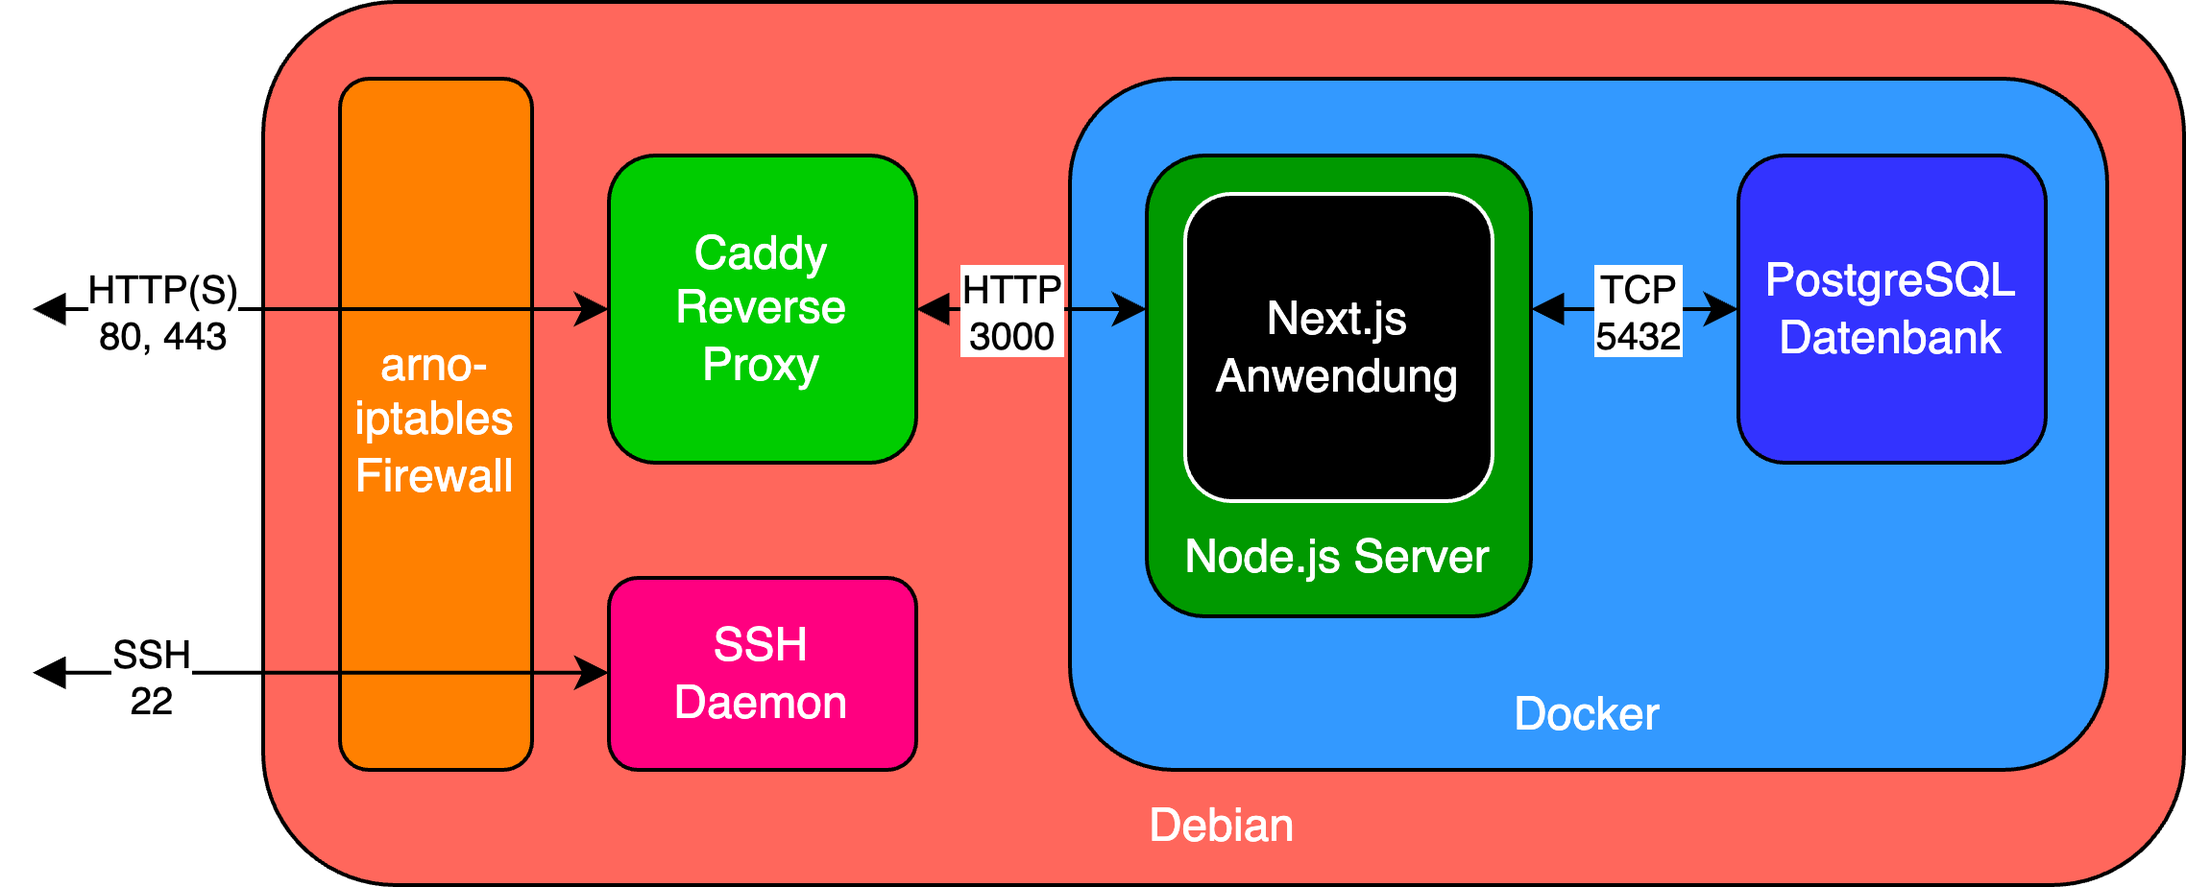
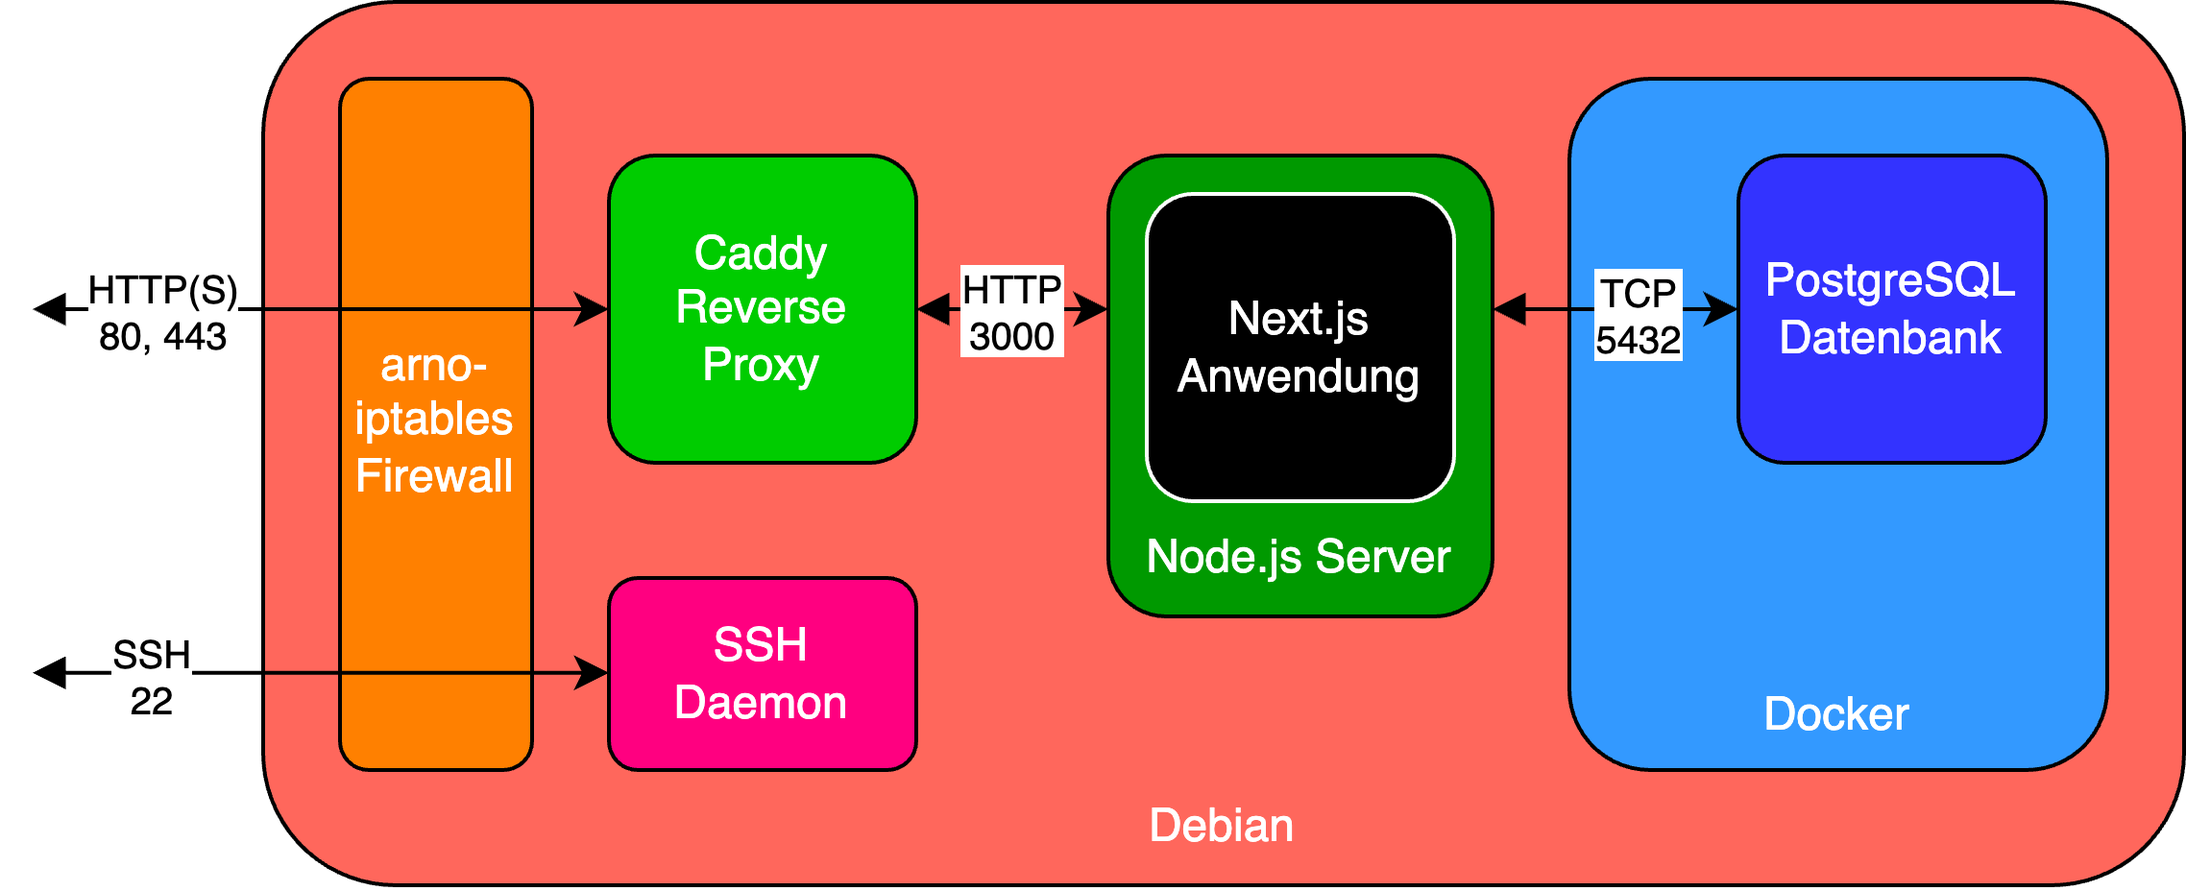
Nun ohne Docker; Spell Checking

diff --git a/docs/Handbuch.md b/docs/Handbuch.md
@@ -3,51 +3,94 @@
 ## Aufsetzen des Linux Servers
 **Mario Wegmann**
 
-In der folgenden Anleitung werden Platzhalter mit <Platzhaltername> markiert. 
-### Grundinstallation
+### Installation
 
-sudo apt-get install git
+In der folgenden Anleitung werden Platzhalter mit `<Platzhaltername>` markiert. 
 
+Zu Beginn sollte ein Reverseproxy installiert werden, dies ist kein absolutes Muss, aber für weitere Funktionalitäten, wie HTTP BasicAuth und SSL-Zertifikate, durchaus hilfreich. 
+Hier wurde der Caddy Reverse Proxy verwendet, aber auch Nginx oder Apache können problemlos eingesetzt werden. 
 
-### Testumgebung für Entwicklung
-// TODO
-Zu beginn muss Node.js installiert werden. 
-Da über den apt Packetmanager nur sehr langsam aktuelle Versionen von Node.js bereitgestellt werden, wird hier der Node Version Manager (nvm) verwendet. 
+Um Caddy zu installieren, wird das Repository von den Caddy Maintainern hinzugefügt.
+
+``` bash
+sudo apt install -y debian-keyring debian-archive-keyring apt-transport-https curl
+curl -1sLf 'https://dl.cloudsmith.io/public/caddy/stable/gpg.key' | sudo gpg --dearmor -o /usr/share/keyrings/caddy-stable-archive-keyring.gpg
+curl -1sLf 'https://dl.cloudsmith.io/public/caddy/stable/debian.deb.txt' | sudo tee /etc/apt/sources.list.d/caddy-stable.list
+```
+
+Anschließend können die Repositorys neu geladen und Caddy installiert werden. 
+
+``` bash
+sudo apt-get update
+sudo apt-get install caddy
+```
+
+Der Caddy Reverseproxy wird über eine Konfigurationsdatei verwaltet, diese sollte sich unter '/etc/caddy/Caddyfile' befinden. Mit dem folgenden Code wird ein einfacher Reverseproxy auf Port :3000 der Next.js Anwendung eingerichtet, dabei wird ein lokal liegendes SSL-Zertifikat verwendet und eine Basic Auth Authentifizierung. 
+Den Passwort Hash kann man direkt mit Caddy generieren, indem `caddy hash-password`verwendet wird, diese Hilfsfunktion fragt nach dem Passwort und gibt dann den Hash aus, welcher in der Caddyfile eingetragen werden kann. 
+
+```yml
+lprd.informatik.tha.de {
+        tls /etc/ssl/certs/lprd-fullchain.pem /etc/ssl/priavte/lprd-privkey.pem
+        basicauth * {
+                <Benutzername> <Passwort Hash>
+        }
+        reverse_proxy 127.0.0.1:3000
+}
+```
+
+Danach muss Node.js installiert werden. 
+Da über den apt Paketmanager nur sehr langsam aktuelle Versionen von Node.js bereitgestellt werden, wird hier der Node Version Manager (nvm) verwendet. 
 
 Dieser lässt sich über folgendes Bash Skript installieren. 
+
 `curl -o- https://raw.githubusercontent.com/nvm-sh/nvm/v0.39.7/install.sh | bash`
-Nach der Installation empfiehlt es sich die SSH Sitzung neu zu starten, damit der `nvm` Befehl auch erkannt wird. 
+
+Nach der Installation empfiehlt es sich, die SSH-Sitzung neu zu starten, damit der `nvm` Befehl auch erkannt wird. 
 Anschließend kann mit `nvm install 20` die LTS-Version Node.js 20 installiert werden. 
-Mit Node.js kommt auch der `npm` Packetmanager. Mit disem lässt sich React und Next.js installieren. 
+Mit Node.js kommt auch der `npm` Paketmanager. Mit diesem lässt sich React und Next.js installieren. 
+
 `npm install next@latest react@latest react-dom@latest`
 
-Als nächstes muss ein SSH Key für Github hinterlegt werden, damit das Repository geklont werden kann. 
-Dafür wird als erstet ein SSH Key generiert. 
-Es empfiehlt sich dabei auch ein Passphrase zu vergeben und beim Speicherort einen eindeutigen Namen zu vergeben. 
+Als Nächstes wird `git`installiert, um den Sourcode herunterladen zu können. 
+
+`sudo apt-get install git`
+
+Danach muss ein SSH Key für Github hinterlegt werden, damit das Repository geklont werden kann. 
+Dafür wird als Erstes ein SSH Key generiert. 
+Es empfiehlt sich dabei auch, eine Passphrase zu vergeben und beim Speicherort einen eindeutigen Namen zu vergeben. 
+
 `ssh-keygen -t ed25519 -C "<Github E-Mail Adresse>"`
-Als nächstes wird der SSH Agent einmal gestartet um anschließend den SSH Key beim SSH Agent hinterlegen zu können. 
+
+Als Nächstes wird der SSH Agent einmal gestartet, um anschließend den SSH Key beim SSH Agent hinterlegen zu können. 
+
 `eval "$(ssh-agent -s)"`
-Beim hinzufügen muss auch die zuvor festgelegte Passpharse eingegeben werden. 
+
+Beim Hinzufügen muss auch die zuvor festgelegte Passphrase eingegeben werden. 
+
 `ssh-add <Speicherort des zuvor erstellten SSH Keys angeben>`
 
 Der Public Teil des SSH Keys muss auch im Github Account hinterlegt werden. 
 Dafür die URL https://github.com/settings/keys aufrufen und einen neuen SSH Key hinzufügen. 
 
 Nun kann das Repository der Webanwendung geklont werden. 
+
 `git clone git@github.com:THA-LPRD/web.git lprd`
 
 Danach wird das Verzeichnis von der Next.js Anwendung betreten.
+
 `cd lprd/lprd-server`
 
-Die Anwendung verwendet die offizielle Schriftart der THA. Die Schriftart TWK Everett darf wegen der, von der THA erworbenen, Lizenz jedoch nur Studierenden und Mitarbeitern der Technischen Hochschule Augsburg zur verfügung gestellt werden. Die Schriftart lässt sich unter folgender URL herunterladen: https://www.tha.de/Kommunikation/Corporate-Design.page 
-Anschließend müssen die zwei Schriftfamilien TWKEverett-Bold-web.ttf und TWKEverett-Medium-web.ttf TWKEverett-Medium-web.ttf müssen im Ordner lprd-server/components/fonts kopiert werden. 
+Die Anwendung verwendet die offizielle Schriftart der THA. Die Schriftart TWK Everett darf, wegen der von der THA erworbenen, Lizenz jedoch nur Studierenden und Mitarbeitern der Technischen Hochschule Augsburg zur Verfügung gestellt werden. Die Schriftart lässt sich unter folgender URL herunterladen: https://www.tha.de/Kommunikation/Corporate-Design.page 
+Anschließend müssen die zwei Schriftfamilien TWKEverett-Bold-web.ttf und TWKEverett-Medium-web.ttf TWKEverett-Medium-web.ttf im Ordner lprd-server/components/fonts kopiert werden. 
 
-Als nächstes kann die PostgreSQL Datenbank aufgesetzt werden. 
+Als Nächstes kann die PostgreSQL-Datenbank aufgesetzt werden. 
 Dafür kann das Docker Image oder auch ein bestehender PostgreSQL Server verwendet werden. 
+
 `sudo docker run --name lprd-postgres -v pgdata:/var/lib/postgresql/data -p 5432:5432 -e POSTGRES_PASSWORD=<SicherersDatenbankPasswort> -d postgres`
 
 Die URL der Datenbank muss auch noch der Next.js Anwendung bekannt gemacht werden, dies geschieht über die .env Datei. 
-Diese sollte neue angelegt werden und den folgenden Inhalt enthalten: 
+Diese sollte neu angelegt werden und den folgenden Inhalt enthalten: 
+
 `DATABASE_URL="postgresql://<PostgresUser>:<PostgresUserPassword>@<PostgresServerIP/Hostname>:5432"`
 
 Nach der Installation der Datenbank kann diese mit Prisma mit den notwendigen Tabellen befüllt werden. 
@@ -55,9 +98,11 @@ Nach der Installation der Datenbank kann diese mit Prisma mit den notwendigen Ta
 `npx prisma migrate dev --name init`
 
 Für die Konvertierung von HTML zu PNG wird die Library node-html-to-image verwendet. Diese nutzt Puppeteer als Basis für die Konvertierung. Beim direkten Testen auf dem Server kann es vorkommen, dass Puppeteer nicht startet, da es weitere Abhängigkeiten hat. Diese fehlenden Abhängigkeiten können mit dem folgenden Befehl herausgefunden werden: 
+
 `ldd /home/<USER>/.cache/puppeteer/chrome/linux-<VERSION>/chrome-linux64/chrome | grep not`
 
-Im Fall der hier verwendeten Debian Installation mussten folgende Pakete noch zusätzlich installiert werden
+Im Fall der hier verwendeten Debian Installation mussten folgende Pakete noch zusätzlich installiert werden. 
+
 `sudo apt-get install libgbm1 libasound2 libxkbcommon0 libatk-bridge2.0-0 libnss3`
 
 Die Vorbereitungen sind somit abgeschlossen und der Developmentserver kann gestartet werden.
@@ -66,41 +111,14 @@ Die Vorbereitungen sind somit abgeschlossen und der Developmentserver kann gesta
 
 Unter http://localhost:3000 ist der Server nun erreichbar. 
 
-Der Developmentserver kann mit dem Tastenkürze Ctrl+C beendet werden. 
-
-
-
-
-
-
-
-
-### Produktivumgebung bauen
-
-sudo docker network create lprd
-
-sudo docker run --name lprd-postgres -v pgdata:/var/lib/postgresql/data -p 5432 --net lprd -e POSTGRES_PASSWORD=<SicherersDatenbankPasswort> -d postgres
-
-
-
-
-sudo docker build -t lprd-docker .
-sudo docker run -p 3000:3000 -v lprddata:/app/public/uploads --net lprd -e DATABASE_URL="postgresql://postgres:postgres@lprd-postgres:5432" lprd-docker
-
-### Produktivumgebung starten
-
-// TODO
-CADDY
-Cert
-
-sudo apt-get install docker
+Der Developmentserver kann mit dem Tastenkürzel Ctrl+C beendet werden. 
 
 ## Verwenden der Webanwendung
 **Mario Wegmann**
 
 ### Unterseiten
 
-Nachdem die Anwendung gestartet wurde kann die Adresse im Browser eingegeben werden. Die Startseite, wie in [](#_fig_WA_Startseite) ersichtlich, zeigt das Menü für die Unterseiten an. Es gibt zwei Unterseiten, unter "Displays" werden alle bereits bekannten Displays aufgelistet. In der Unterseite "Assets" werden alle vorhanden Assets angezeigt. 
+Nachdem die Anwendung gestartet wurde, kann die Adresse im Browser eingegeben werden. Die Startseite, wie in [](#_fig_WA_Startseite) ersichtlich, zeigt das Menü für die Unterseiten an. Es gibt zwei Unterseiten, unter »Displays« werden alle bereits bekannten Displays aufgelistet. In der Unterseite »Assets« werden alle vorhandenen Assets angezeigt. 
 
 Figure: Die Startseite der Webanwendung { #_fig_WA_Startseite }
 
@@ -108,35 +126,35 @@ Figure: Die Startseite der Webanwendung { #_fig_WA_Startseite }
 
 ### Neues Asset erstellen
 
-Es gibt zwei Möglichkeiten ein Asset zu erstellen, es kann entweder ein fertiges PNG hochgeladen werden, oder ein PNG aus einem HTML Code erstellt werden. Dazu kann in der "Assets"-Unterseite, welche in [](#_fig_WA_Assets) ersichtlich ist, einer der beiden Vorgänge über die Knöpfe gestartet werden. 
+Es gibt zwei Möglichkeiten, ein Asset zu erstellen, es kann entweder ein fertiges PNG hochgeladen werden oder ein PNG aus einem HTML-Code erstellt werden. Dazu kann in der »Assets«-Unterseite, welche in [](#_fig_WA_Assets) ersichtlich ist, einer der beiden Vorgänge über die Knöpfe gestartet werden. 
 
-Figure: Eine Übersicht über alle vorhanden Assets { #_fig_WA_Assets }
+Figure: Eine Übersicht über alle vorhandenen Assets { #_fig_WA_Assets }
 
 ![](img/Handbuch/WA-Assets.png){ width=60% }
 
 
 **PNG hochladen**
 
-Ein PNG kann auf der Unterseite Assets über den "Hochladen"-Knopf hochgeladen werden. 
-Bei hochladen muss darauf geachtet werden, dass das PNG in der richtigen Auflösung für das Display ist, welches später das Asset anzeigen soll. Ebenso kann ein Name für das Asset und wie lange es angezeigt werden soll angegeben werden. Das hochladen beginnt mit einem Druck auf den "Hochladen"-Knopf. Die [](#_fig_WA_Upload) zeigt das Formular. 
+Ein PNG kann auf der Unterseite Assets über den »Hochladen«-Knopf hochgeladen werden. 
+Beim Hochladen muss darauf geachtet werden, dass das PNG in der richtigen Auflösung für das Display ist, welches später das Asset anzeigen soll. Ebenso kann ein Name für das Asset und wie lange es angezeigt werden soll, angegeben werden. Das Hochladen beginnt mit einem Druck auf den »Hochladen«-Knopf. Die [](#_fig_WA_Upload) zeigt das Formular. 
 
-Figure: Das Formular zum hochladen von bestehenden PNGs { #_fig_WA_Upload }
+Figure: Das Formular zum Hochladen von bestehenden PNGs { #_fig_WA_Upload }
 
 ![](img/Handbuch/WA-Asset-Upload.png){ width=60% }
 
 
 **PNG aus HTML erstellen**
-Auf der Unterseite Assets gibt es auch den "Erstellen aus HTML"-Knopf, dieser öffnet ein Formular, in dem der Assetname, die Anzeigedauer und der HTML Code eingegeben werden kann. Nach dem druck auf den "Generieren"-Knopf wird ein PNG erstellt und lokal abgelegt. Die [](#_fig_WA_HTML) zeigt das Formular. 
+Auf der Unterseite Assets gibt es auch den »Erstellen aus HTML«-Knopf, dieser öffnet ein Formular, in dem der Assetname, die Anzeigedauer und der HTML-Code eingegeben werden kann. Nach dem Druck auf den »Generieren«-Knopf wird ein PNG erstellt und lokal abgelegt. Die [](#_fig_WA_HTML) zeigt das Formular. 
 
 
-Figure: Das Formular zum erstellen von PNGs aus HTML Code { #_fig_WA_HTML }
+Figure: Das Formular zum Erstellen von PNGs aus HTML Code { #_fig_WA_HTML }
 
 ![](img/Handbuch/WA-Asset-HTML.png){ width=60% }
 
 
 ### Vorhandenes Asset bearbeiten
 
-In der "Assets" Übersichtsseite kann jedes vorhandene Asset ausgewählt werden um eine Detailansicht, welche in [](#_fig_WA_Asset_Details) ersichtlich ist, anzuzeigen. Dort können der Name, die Anzeigedauer und der HTML Code bearbeitet werden. 
+In der »Assets« Übersichtsseite kann jedes vorhandene Asset ausgewählt werden, um eine Detailansicht, welche in [](#_fig_WA_Asset_Details) ersichtlich ist, anzuzeigen. Dort können der Name, die Anzeigedauer und der HTML-Code bearbeitet werden. 
 Ebenso kann ein Asset auch gelöscht werden. 
 
 Figure: Die Detailansicht eines Assets { #_fig_WA_Asset_Details }
@@ -145,17 +163,17 @@ Figure: Die Detailansicht eines Assets { #_fig_WA_Asset_Details }
 
 ### Neues Displaymodul verbinden
 
-Beim erstmaligen einschalten eines Displaymoduls, nach dem flashen, kann in der Einrichtungsseite des Displaymoduls der Servermodus als Betriebsmodus ausgewählt werden. Ebenso kann die Server URL im dazugehörigen Textfeld angegeben werden. 
+Beim erstmaligen Einschalten eines Displaymoduls, nach dem Flashen, kann in der Einrichtungsseite des Displaymoduls der Servermodus als Betriebsmodus ausgewählt werden. Ebenso kann die Server URL im dazugehörigen Textfeld angegeben werden. 
 
-Die weiteren Einstellungen verhalten sich gleich wie auch bei der Einrichtung vom Netzwerkmodus bereits erläutert wurde. 
+Die weiteren Einstellungen verhalten sich gleich, wie auch bei der Einrichtung des Netzwerkmodus bereits erläutert wurde. 
 
-Nachdem die Erstkonfiguration gespeichert und das Displaymodul neu gestartet wurde, versucht es sich automatisch mit dem eingetragenen WLAN und anschlißend mit dem eingetragenen Server zu verbinden. 
+Nachdem die Erstkonfiguration gespeichert und das Displaymodul neu gestartet wurde, versucht es sich automatisch mit dem eingetragenen WLAN und anschließend mit dem eingetragenen Server zu verbinden. 
 
-Falls das Displaymodul sich zum ersten mal mit diesem Server verbindet, wird es automatisch in der Datenbank eingetragen, anschließend geht das Display in den Deep-sleep Modus. 
+Falls das Displaymodul sich zum ersten Mal mit diesem Server verbindet, wird es automatisch in der Datenbank eingetragen, anschließend geht das Display in den Deep-sleep Modus. 
 
 ### Vorhandenes Display bearbeiten
 
-Ähnlich wie bei der Assets Übersicht, können auch die Displays in der "Display"-Unterseite, welche in [](#_fig_WA_Displays) dargestellt ist, bearbeitet werden. In der Detailansicht, diese ist in [](#_fig_WA_Display_Details) zu erkennen, eines Displays kann die MAC-Adresse und der Zeitpunkt, zu dem sich das Display zum letzen mal beim Server gemeldet hat, eingesehen werden. Der Name des Displays und die Auflösung können bearbeitet werden. 
+Ähnlich wie bei der Assets-Übersicht können auch die Displays in der »Display«-Unterseite, welche in [](#_fig_WA_Displays) dargestellt ist, bearbeitet werden. In der Detailansicht, diese ist in [](#_fig_WA_Display_Details) zu erkennen, eines Displays kann die MAC-Adresse und der Zeitpunkt, zu dem sich das Display zum letzten Mal beim Server gemeldet hat, eingesehen werden. Der Name des Displays und die Auflösung können bearbeitet werden. 
 
 Zuletzt kann ein Display auch wieder gelöscht werden. 
 
@@ -169,11 +187,11 @@ Figure: Die Detailansicht eines Displays { #_fig_WA_Display_Details}
 
 ### Neues Asset auf dem Display anzeigen
 
-Sobald ein Displaymodul sich in der Webanwendung registriet hat, kann in der Webanwendung das Display ausgewählt werden. Hier können grundlegene Informationen zum Display bearbeitet und ein neues aktives Asset gesetz werden. 
+Sobald ein Displaymodul sich in der Webanwendung registriert hat, kann in der Webanwendung das Display ausgewählt werden. Hier können grundlegende Informationen zum Display bearbeitet und ein neues aktives Asset gesetzt werden. 
 
-Mit einem Tastendruck auf den vorderseitigen Knopf, kann das Display aus dem Deep-sleep Modus wieder aufgeweckt werden. Immer nach dem Aufwecken versucht das Displaymodul sich mit dem Server zu verbinden und eine neue Konfiguration zu erhalten. Die Konfiguration enthält die URL des aktuell anzuzeigenden Assets und eine Dauer in Sekunden, die angiebt, wie lange das Asset angezeigt werden soll. 
+Mit einem Tastendruck auf den vorderseitigen Knopf kann das Display aus dem Deep-sleep Modus wieder aufgeweckt werden. Immer nach dem Aufwecken versucht das Displaymodul, sich mit dem Server zu verbinden und eine neue Konfiguration zu erhalten. Die Konfiguration enthält die URL des aktuell anzuzeigenden Assets und eine Dauer in Sekunden, die angibt, wie lange das Asset angezeigt werden soll. 
 
-Das Displaymodul lädt anschließend das Asset von der angegebenen URL herunter, zeigt es an und versetzt sich anschließend wieder in den Deep-sleep Modus. Zusätzlich wird noch ein Wakeup Timer auf die angegebene Dauer gesetzt. Dieser Timer weckt somit das Displaymodul automatisch nach ablauf der Anzeigedauer auf, damit sich das Displaymodul ein neues anzuzeigendes Asset herunterlädt. 
+Das Displaymodul lädt anschließend das Asset von der angegebenen URL herunter, zeigt es an und versetzt sich anschließend wieder in den Deep-sleep Modus. Zusätzlich wird noch ein Wakeup Timer auf die angegebene Dauer gesetzt. Dieser Timer weckt somit das Displaymodul automatisch nach Ablauf der Anzeigedauer auf, damit sich das Displaymodul ein neues anzuzeigendes Asset herunterlädt. 
 
 ## Quellen
 https://docs.github.com/en/authentication/connecting-to-github-with-ssh/generating-a-new-ssh-key-and-adding-it-to-the-ssh-agent?platform=linux#generating-a-new-ssh-key 

diff --git a/docs/Webentwicklung.md b/docs/Webentwicklung.md
@@ -20,7 +20,7 @@ Als Webframework wurde Next.js ausgewählt, da es React unter anderem um servers
 
 Für das Speichern der Daten wurde PostgreSQL als Datenbank ausgewählt. Hierbei wird Prisma ORM als Zwischenschicht eingesetzt, damit die Modelle der relationanlen Datenbank als Objekte mit statischen Typen generiert werden. 
 
-Für den Webserver wurden Linux und Docker verwendet. Das quelloffene Linux ist bekannt für seine Stabilität, Sicherheit und Performance, was es zu einer idealen Wahl für den Einsatz als Webserver macht. Docker ergänzt diese Vorteile durch die Bereitstellung einer containerisierten Umgebung, die eine konsistente und isolierte Ausführung von Anwendungen ermöglicht. Dies erleichtert die Skalierung und Verwaltung der Anwendung erheblich und sorgt dafür, dass sie in unterschiedlichen Umgebungen gleichbleibend funktioniert. Docker-Container bieten zudem eine einfache Möglichkeit, Abhängigkeiten zu verwalten und die Bereitstellung von Updates zu automatisieren. 
+Für den Webserver wurden Linux und teilweise Docker verwendet. Das quelloffene Linux ist bekannt für seine Stabilität, Sicherheit und Performance, was es zu einer idealen Wahl für den Einsatz als Webserver macht. Docker ergänzt diese Vorteile durch die Bereitstellung einer containerisierten Umgebung, die eine konsistente und isolierte Ausführung von Anwendungen ermöglicht. Dies erleichtert die Skalierung und Verwaltung der Anwendung erheblich und sorgt dafür, dass sie in unterschiedlichen Umgebungen gleichbleibend funktioniert. Docker-Container bieten zudem eine einfache Möglichkeit, Abhängigkeiten zu verwalten und die Bereitstellung von Updates zu automatisieren. 
 
 Die Kombination dieser Technologien ermöglicht effizient eine benutzerfreundliche, performante und wartbare Webanwendung zu entwickeln. 
 
@@ -70,6 +70,7 @@ Für eine standardisierte Verwendung der Daten wurde eine REST-API-Schnittstelle
 
 Eine vollständige Übersicht der möglichen REST-API-Aufrufe ist in Tabelle [](#_tab_MW_03) ersichtlich. Platzhalter in eckigen Klammern werden dabei dynamisch in der Anfrage berücksichtigt. 
 
+
 Table: Die Unterstützen REST-API Aufrufe der Webanwendung { #_tab_MW_03 }
 
 | URL | Methode | Body | Rückgabe | Zweck |
@@ -94,15 +95,16 @@ Figure: Die Übersichtsseite aller Displays { #_fig_WA_Displays}
 
 ![](img/Handbuch/WA-Displays.png){ width=60% }
 
+Figure: Die Detailansicht eines Displays { #_fig_WA_Display_Details}
+
+![](img/Handbuch/WA-Display-Details.png){ width=60% }
+
 Ähnlich verhält es sich mit der zweiten Hauptunterseite »Assets«, die unter [](#_fig_WA_Assets) erkennbar ist. Auch hier werden alle vorhandenen Assets aufgelistet und können ausgewählt werden, um eine Detailansicht, wie in [](#_fig_WA_Display_Details) gezeigt, zu öffnen und die Metadaten zu bearbeiten und das Asset zu löschen. Im Gegensatz zu Displaymodulen können Assets händisch angelegt werden, entweder kann dafür eine PNG-Datei hochgeladen oder HTML-Code eingetragen werden, welcher abschließend wieder ein PNG produziert. Die Abbildungen [](#_fig_WA_Upload) und [](#_fig_WA_HTML) zeigen jeweils die beiden Vorgänge. 
 
 Figure: Eine Übersicht über alle vorhanden Assets { #_fig_WA_Assets }
 
 ![](img/Handbuch/WA-Assets.png){ width=60% }
 
-Figure: Die Detailansicht eines Displays { #_fig_WA_Display_Details}
-
-![](img/Handbuch/WA-Display-Details.png){ width=60% }
 
 Figure: Das Formular zum hochladen von bestehenden PNGs { #_fig_WA_Upload }
 

diff --git a/docs/Hardware.md b/docs/Hardware.md
@@ -78,9 +78,11 @@ Figure: Konzeptioneller Aufbau des Akkus { #_fig_MW_Akkukonzept }
 
 ![](img/Akku-Konzept.png){ width=60% }
 
+
 Figure: Foto des aufgebauten Akkus { #_fig_MW_Akkubild }
 
 ![](img/Akku-Bild.jpeg){ width=60% }
+
 
 ### Battery Management System anschließen
 Als Erstes sollte das BMS verdrahtet werden. In diesem Projekt wurde sich dafür entschieden, dass das Akkupack über einen Stecker mit dem Mainboard verbunden werden kann und somit modular ist. Somit wurde an den Ausgängen des BMS ein 2 Pin JST-X2 Stecker gelötet. Hierbei wurde sich im Team intern darauf geeinigt, dass der Pluspol rechts ist, wenn von der Drahtseite auf den Stecker geschaut wird und die Nase des Steckers nach oben zeigt. An den Pads für die Batteriepole wurde das Nickelband ebenso verlötet. 
